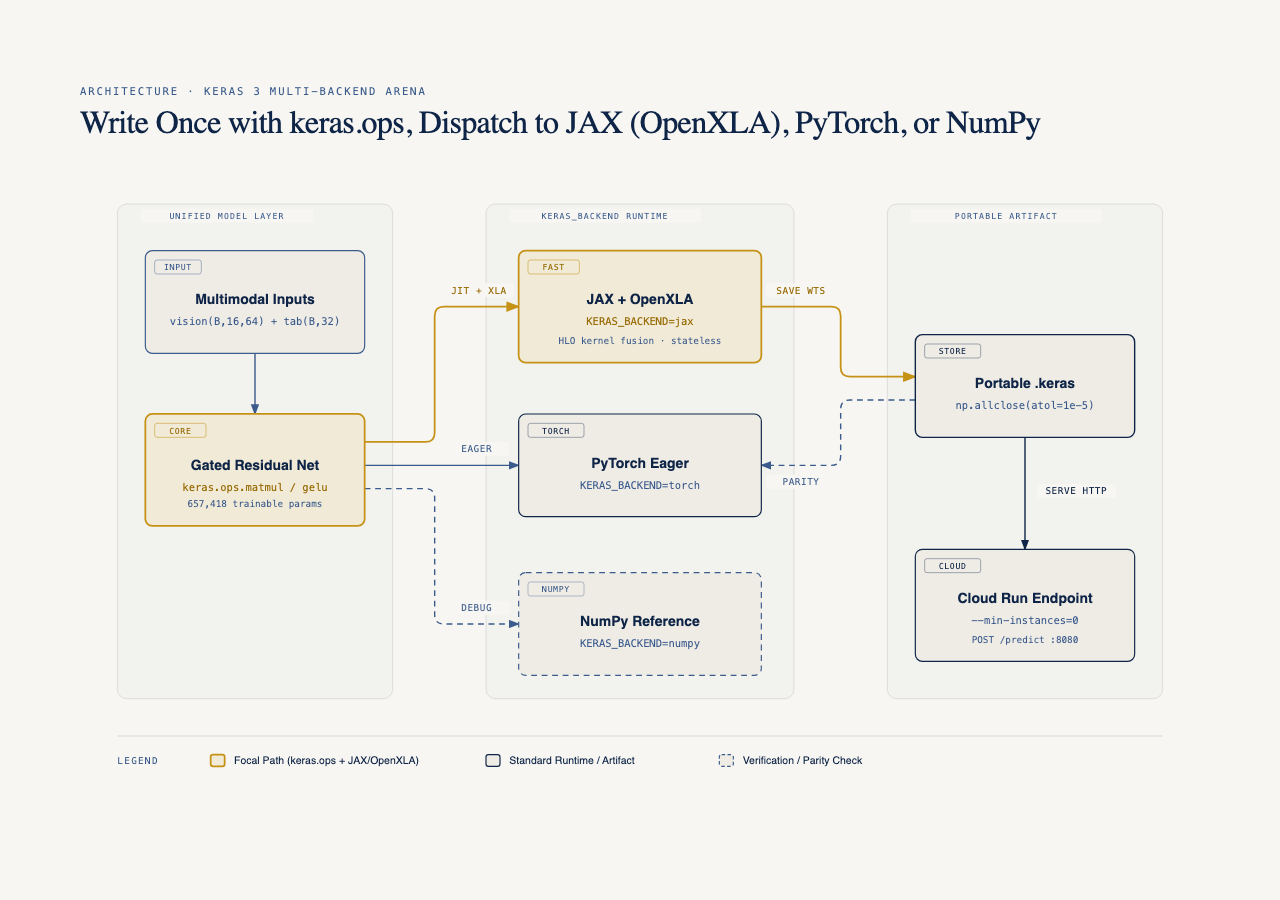
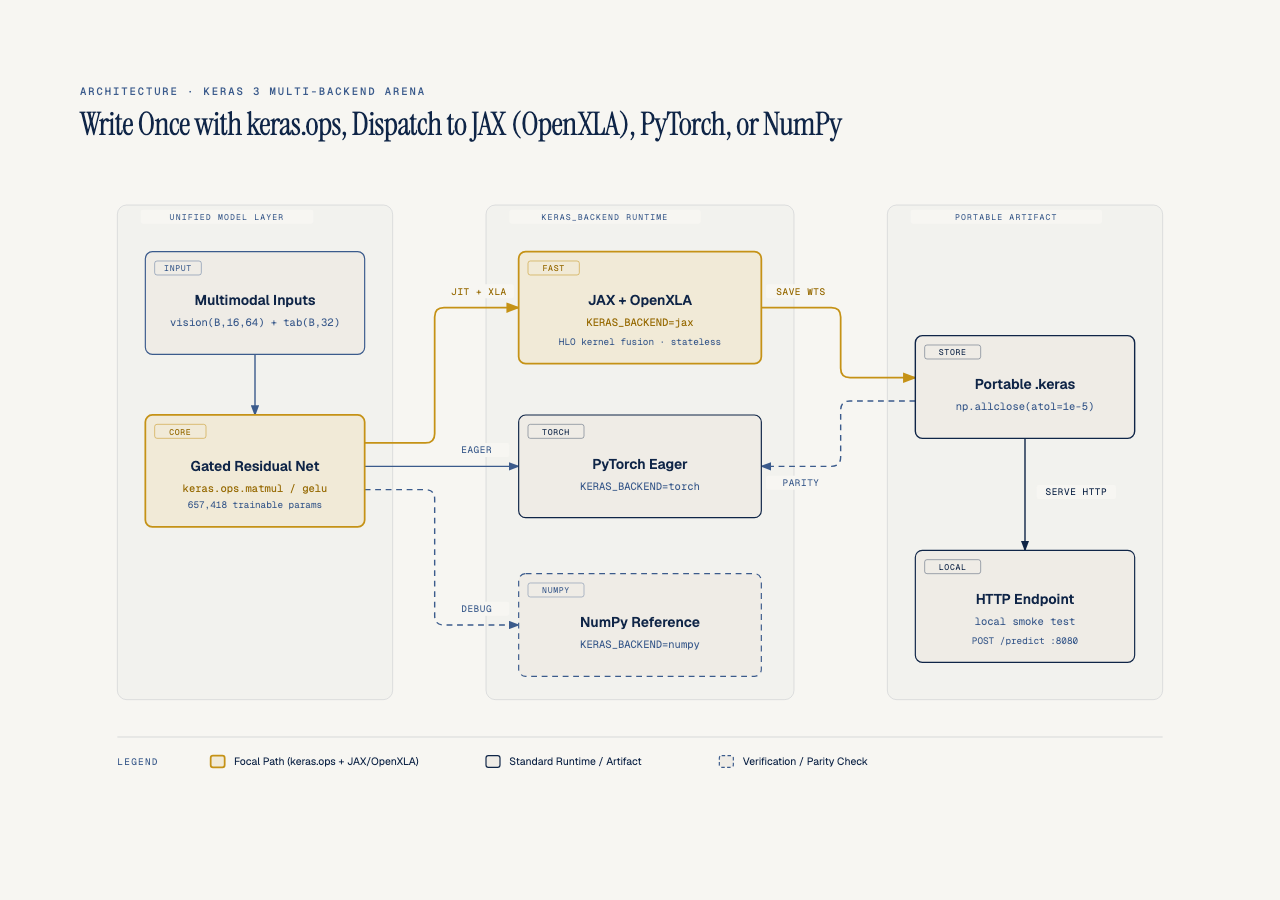
Clarify torch eager/MPS baseline, fusion substring count and local smoke test; refresh throughput diagram

diff --git a/diagrams/02-jax-vs-torch-throughput.html b/diagrams/02-jax-vs-torch-throughput.html
@@ -62,12 +62,12 @@
 <body>
   <div class="frame">
     <p class="eyebrow">Benchmark · Steady-State Throughput &amp; Step Latency (Batch Size = 256)</p>
-    <h1>KERAS_BACKEND=jax (OpenXLA) Delivers 1.92x Faster Training and 1.84x Faster Inference</h1>
+    <h1>Keras-jax jit (CPU) vs Keras-torch eager (MPS) · 2.00x train, 1.82x eval</h1>
 
     <div class="diagram-container">
       <svg viewBox="0 0 1000 540" xmlns="http://www.w3.org/2000/svg" role="img" aria-labelledby="jax-torch-bar-title jax-torch-bar-desc">
         <title id="jax-torch-bar-title">Keras 3 JAX vs PyTorch Steady-State Throughput</title>
-        <desc id="jax-torch-bar-desc">Column bar chart comparing steady-state samples per second and step latency in milliseconds between KERAS_BACKEND=jax with OpenXLA and KERAS_BACKEND=torch on the 657,418-parameter multimodal residual model.</desc>
+        <desc id="jax-torch-bar-desc">Column bar chart comparing steady-state samples per second and step latency in milliseconds between KERAS_BACKEND=jax compiled on CPU and KERAS_BACKEND=torch eager on Apple MPS on the 657,418-parameter multimodal residual model.</desc>
 
         <rect width="100%" height="100%" fill="#F7F6F2"/>
 
@@ -93,42 +93,42 @@
         <text x="80" y="403" fill="#3B5B8C" font-size="8" font-family="'Geist Mono', monospace" text-anchor="end">0</text>
 
         <!-- Bar 1: JAX Train (train_on_batch) = 23,539.6 samples/s (10.875 ms/step) -> height=141, y=259 (Focal 1) -->
-        <rect x="136" y="260" width="96" height="140" fill="#F7F6F2"/>
-        <rect x="136" y="260" width="96" height="140" fill="rgba(197,146,22,0.12)" stroke="#C59216" stroke-width="1.5"/>
-        <text x="184" y="250" fill="#9A6F0B" font-size="9" font-weight="600" font-family="'Geist Mono', monospace" text-anchor="middle">23,539.6 /s</text>
-        <text x="184" y="238" fill="#3B5B8C" font-size="8" font-family="'Geist Mono', monospace" text-anchor="middle">10.875 ms/step (1.92x)</text>
+        <rect x="136" y="251.2" width="96" height="148.8" fill="#F7F6F2"/>
+        <rect x="136" y="251.2" width="96" height="148.8" fill="rgba(197,146,22,0.12)" stroke="#C59216" stroke-width="1.5"/>
+        <text x="184" y="241.2" fill="#9A6F0B" font-size="9" font-weight="600" font-family="'Geist Mono', monospace" text-anchor="middle">24,794.8 /s</text>
+        <text x="184" y="229.2" fill="#3B5B8C" font-size="8" font-family="'Geist Mono', monospace" text-anchor="middle">10.325 ms/step (2.00x)</text>
         <text x="184" y="422" fill="#0F2547" font-size="11" font-weight="600" font-family="'Geist', sans-serif" text-anchor="middle">JAX Train</text>
         <text x="184" y="436" fill="#9A6F0B" font-size="8" font-family="'Geist Mono', monospace" text-anchor="middle">KERAS_BACKEND=jax</text>
 
         <!-- Bar 2: PyTorch Train (train_on_batch) = 12,252.2 samples/s (20.894 ms/step) -> height=72, y=328 -->
-        <rect x="284" y="328" width="96" height="72" fill="#F7F6F2"/>
-        <rect x="284" y="328" width="96" height="72" fill="rgba(59,91,140,0.15)" stroke="#3B5B8C" stroke-width="1"/>
-        <text x="332" y="316" fill="#0F2547" font-size="9" font-family="'Geist Mono', monospace" text-anchor="middle">12,252.2 /s</text>
-        <text x="332" y="304" fill="#3B5B8C" font-size="8" font-family="'Geist Mono', monospace" text-anchor="middle">20.894 ms/step (1.00x)</text>
+        <rect x="284" y="325.6" width="96" height="74.4" fill="#F7F6F2"/>
+        <rect x="284" y="325.6" width="96" height="74.4" fill="rgba(59,91,140,0.15)" stroke="#3B5B8C" stroke-width="1"/>
+        <text x="332" y="315.6" fill="#0F2547" font-size="9" font-family="'Geist Mono', monospace" text-anchor="middle">12,401.3 /s</text>
+        <text x="332" y="303.6" fill="#3B5B8C" font-size="8" font-family="'Geist Mono', monospace" text-anchor="middle">20.643 ms/step (1.00x)</text>
         <text x="332" y="422" fill="#0F2547" font-size="11" font-weight="600" font-family="'Geist', sans-serif" text-anchor="middle">PyTorch Train</text>
         <text x="332" y="436" fill="#3B5B8C" font-size="8" font-family="'Geist Mono', monospace" text-anchor="middle">KERAS_BACKEND=torch</text>
 
         <!-- Bar 3: JAX Custom Stateless Loop = 23,734.5 samples/s (10.786 ms/step) -> height=144, y=256 -->
-        <rect x="448" y="256" width="96" height="144" fill="#F7F6F2"/>
-        <rect x="448" y="256" width="96" height="144" fill="rgba(59,91,140,0.15)" stroke="#0F2547" stroke-width="1.2"/>
-        <text x="496" y="248" fill="#0F2547" font-size="9" font-family="'Geist Mono', monospace" text-anchor="middle">23,734.5 /s</text>
-        <text x="496" y="236" fill="#3B5B8C" font-size="8" font-family="'Geist Mono', monospace" text-anchor="middle">10.786 ms/step (1.94x)</text>
+        <rect x="448" y="244.3" width="96" height="155.7" fill="#F7F6F2"/>
+        <rect x="448" y="244.3" width="96" height="155.7" fill="rgba(59,91,140,0.15)" stroke="#0F2547" stroke-width="1.2"/>
+        <text x="496" y="234.3" fill="#0F2547" font-size="9" font-family="'Geist Mono', monospace" text-anchor="middle">25,946.4 /s</text>
+        <text x="496" y="222.3" fill="#3B5B8C" font-size="8" font-family="'Geist Mono', monospace" text-anchor="middle">9.866 ms/step (SGD)</text>
         <text x="496" y="422" fill="#0F2547" font-size="11" font-weight="600" font-family="'Geist', sans-serif" text-anchor="middle">JAX Stateless</text>
         <text x="496" y="436" fill="#3B5B8C" font-size="8" font-family="'Geist Mono', monospace" text-anchor="middle">value_and_grad</text>
 
         <!-- Bar 4: JAX Eval (test_on_batch) = 52,708.9 samples/s (4.857 ms/step) -> height=316, y=84 (Focal 2) -->
-        <rect x="628" y="84" width="96" height="316" fill="#F7F6F2"/>
-        <rect x="628" y="84" width="96" height="316" fill="rgba(197,146,22,0.12)" stroke="#C59216" stroke-width="1.5"/>
-        <text x="676" y="74" fill="#9A6F0B" font-size="9" font-weight="600" font-family="'Geist Mono', monospace" text-anchor="middle">52,708.9 /s</text>
-        <text x="676" y="62" fill="#3B5B8C" font-size="8" font-family="'Geist Mono', monospace" text-anchor="middle">4.857 ms/step (1.84x)</text>
+        <rect x="628" y="67.1" width="96" height="332.9" fill="#F7F6F2"/>
+        <rect x="628" y="67.1" width="96" height="332.9" fill="rgba(197,146,22,0.12)" stroke="#C59216" stroke-width="1.5"/>
+        <text x="676" y="57.1" fill="#9A6F0B" font-size="9" font-weight="600" font-family="'Geist Mono', monospace" text-anchor="middle">55,482.9 /s</text>
+        <text x="676" y="45.1" fill="#3B5B8C" font-size="8" font-family="'Geist Mono', monospace" text-anchor="middle">4.614 ms/step (1.82x)</text>
         <text x="676" y="422" fill="#0F2547" font-size="11" font-weight="600" font-family="'Geist', sans-serif" text-anchor="middle">JAX Inference</text>
         <text x="676" y="436" fill="#9A6F0B" font-size="8" font-family="'Geist Mono', monospace" text-anchor="middle">KERAS_BACKEND=jax</text>
 
         <!-- Bar 5: PyTorch Eval (test_on_batch) = 28,586.9 samples/s (8.955 ms/step) -> height=172, y=228 -->
-        <rect x="776" y="228" width="96" height="172" fill="#F7F6F2"/>
-        <rect x="776" y="228" width="96" height="172" fill="rgba(59,91,140,0.15)" stroke="#3B5B8C" stroke-width="1"/>
-        <text x="824" y="218" fill="#0F2547" font-size="9" font-family="'Geist Mono', monospace" text-anchor="middle">28,586.9 /s</text>
-        <text x="824" y="206" fill="#3B5B8C" font-size="8" font-family="'Geist Mono', monospace" text-anchor="middle">8.955 ms/step (1.00x)</text>
+        <rect x="776" y="217.4" width="96" height="182.6" fill="#F7F6F2"/>
+        <rect x="776" y="217.4" width="96" height="182.6" fill="rgba(59,91,140,0.15)" stroke="#3B5B8C" stroke-width="1"/>
+        <text x="824" y="207.4" fill="#0F2547" font-size="9" font-family="'Geist Mono', monospace" text-anchor="middle">30,435.1 /s</text>
+        <text x="824" y="195.4" fill="#3B5B8C" font-size="8" font-family="'Geist Mono', monospace" text-anchor="middle">8.411 ms/step (1.00x)</text>
         <text x="824" y="422" fill="#0F2547" font-size="11" font-weight="600" font-family="'Geist', sans-serif" text-anchor="middle">PyTorch Inference</text>
         <text x="824" y="436" fill="#3B5B8C" font-size="8" font-family="'Geist Mono', monospace" text-anchor="middle">KERAS_BACKEND=torch</text>
 
@@ -144,10 +144,10 @@
         <text x="136" y="496" fill="#0F2547" font-size="9" font-family="'Geist', sans-serif">KERAS_BACKEND=jax (OpenXLA JIT)</text>
 
         <rect x="348" y="488" width="12" height="10" rx="2" fill="rgba(59,91,140,0.15)" stroke="#0F2547" stroke-width="1.2"/>
-        <text x="368" y="496" fill="#0F2547" font-size="9" font-family="'Geist', sans-serif">Custom Stateless JAX (value_and_grad)</text>
+        <text x="368" y="496" fill="#0F2547" font-size="9" font-family="'Geist', sans-serif">Custom Stateless JAX (SGD, not comparable)</text>
 
         <rect x="596" y="488" width="12" height="10" rx="2" fill="rgba(59,91,140,0.15)" stroke="#3B5B8C" stroke-width="1"/>
-        <text x="616" y="496" fill="#0F2547" font-size="9" font-family="'Geist', sans-serif">KERAS_BACKEND=torch (Eager Baseline)</text>
+        <text x="616" y="496" fill="#0F2547" font-size="9" font-family="'Geist', sans-serif">KERAS_BACKEND=torch (eager, MPS)</text>
       </svg>
     </div>
   </div>

diff --git a/diagrams/03-stateless-call-flow.html b/diagrams/03-stateless-call-flow.html
@@ -3,7 +3,7 @@
 <head>
   <meta charset="UTF-8">
   <meta name="viewport" content="width=device-width, initial-scale=1.0">
-  <title>Stateless JAX Training and Cloud Run Flow</title>
+  <title>Stateless JAX Training and Serving Flow</title>
   <link href="https://fonts.googleapis.com/css2?family=Instrument+Serif:ital@0;1&family=Geist:wght@400;500;600&family=Geist+Mono:wght@400;500;600&display=swap" rel="stylesheet">
   <style>
     *, *::before, *::after { box-sizing: border-box; margin: 0; padding: 0; }
@@ -62,12 +62,12 @@
 <body>
   <div class="frame">
     <p class="eyebrow">Data Flow · Pure Functional JAX Bridge</p>
-    <h1>From model.stateless_call Inside jax.value_and_grad to Scale-to-Zero Serving</h1>
+    <h1>From model.stateless_call Inside jax.value_and_grad to a Portable .keras</h1>
 
     <div class="diagram-container">
       <svg viewBox="0 0 960 520" xmlns="http://www.w3.org/2000/svg" role="img" aria-labelledby="stateless-flow-title stateless-flow-desc">
-        <title id="stateless-flow-title">Stateless JAX Training and Cloud Run Export Flow</title>
-        <desc id="stateless-flow-desc">Data flow diagram showing how Keras 3 trainable and non-trainable variable PyTrees enter model.stateless_call inside a JIT-compiled jax.value_and_grad step, update parameters functionally, sync back to the Keras model, and deploy to Cloud Run.</desc>
+        <title id="stateless-flow-title">Stateless JAX Training and .keras Export Flow</title>
+        <desc id="stateless-flow-desc">Data flow diagram showing how Keras 3 trainable and non-trainable variable PyTrees enter model.stateless_call inside a JIT-compiled jax.value_and_grad step, update parameters functionally, sync back to the Keras model, and export a .keras file for a local HTTP smoke test.</desc>
         <defs>
           <marker id="arrow" markerWidth="8" markerHeight="6" refX="7" refY="3" orient="auto">
             <polygon points="0 0, 8 3, 0 6" fill="#3B5B8C"/>
@@ -160,9 +160,9 @@
         <rect x="736" y="340" width="184" height="88" rx="6" fill="#F7F6F2"/>
         <rect x="736" y="340" width="184" height="88" rx="6" fill="#EFECE6" stroke="#0F2547" stroke-width="1.2"/>
         <rect x="744" y="348" width="48" height="12" rx="2" fill="transparent" stroke="rgba(15,37,71,0.40)" stroke-width="0.8"/>
-        <text x="768" y="357" fill="#0F2547" font-size="7" font-family="'Geist Mono', monospace" text-anchor="middle" letter-spacing="0.08em">CLOUD</text>
-        <text x="828" y="386" fill="#0F2547" font-size="12" font-weight="600" font-family="'Geist', sans-serif" text-anchor="middle">Cloud Run Serving</text>
-        <text x="828" y="404" fill="#3B5B8C" font-size="9" font-family="'Geist Mono', monospace" text-anchor="middle">min-instances=0 · HTTP</text>
+        <text x="768" y="357" fill="#0F2547" font-size="7" font-family="'Geist Mono', monospace" text-anchor="middle" letter-spacing="0.08em">SERVE</text>
+        <text x="828" y="386" fill="#0F2547" font-size="12" font-weight="600" font-family="'Geist', sans-serif" text-anchor="middle">HTTP Serving</text>
+        <text x="828" y="404" fill="#3B5B8C" font-size="9" font-family="'Geist Mono', monospace" text-anchor="middle">local HTTP · model()</text>
 
         <!-- Horizontal bottom legend strip -->
         <line x1="36" y1="456" x2="920" y2="456" stroke="rgba(15,37,71,0.14)" stroke-width="0.8"/>
@@ -172,7 +172,7 @@
         <text x="136" y="480" fill="#0F2547" font-size="9" font-family="'Geist', sans-serif">Focal Transformation (stateless_call + value_and_grad)</text>
 
         <rect x="436" y="472" width="12" height="10" rx="2" fill="#EFECE6" stroke="#0F2547" stroke-width="1"/>
-        <text x="456" y="480" fill="#0F2547" font-size="9" font-family="'Geist', sans-serif">Stateful Keras / Cloud Run Stage</text>
+        <text x="456" y="480" fill="#0F2547" font-size="9" font-family="'Geist', sans-serif">Stateful Keras / Serving Stage</text>
 
         <line x1="656" y1="477" x2="676" y2="477" stroke="#3B5B8C" stroke-width="1.2" stroke-dasharray="4,3"/>
         <text x="684" y="480" fill="#0F2547" font-size="9" font-family="'Geist', sans-serif">Iterative Functional Loop</text>

diff --git a/diagrams/01-keras3-multibackend-arch.html b/diagrams/01-keras3-multibackend-arch.html
@@ -67,7 +67,7 @@
     <div class="diagram-container">
       <svg viewBox="0 0 960 560" xmlns="http://www.w3.org/2000/svg" role="img" aria-labelledby="keras3-arch-title keras3-arch-desc">
         <title id="keras3-arch-title">Keras 3 Multi-Backend Architecture</title>
-        <desc id="keras3-arch-desc">Architecture diagram showing a single multimodal keras.ops model dispatching to JAX with OpenXLA fusion, PyTorch eager execution, or NumPy verification, and exporting a portable .keras artifact.</desc>
+        <desc id="keras3-arch-desc">Architecture diagram showing a single multimodal keras.ops model dispatching to JAX with OpenXLA fusion, PyTorch eager execution, or NumPy verification, and exporting a portable .keras artifact served by a local HTTP smoke test.</desc>
         <defs>
           <marker id="arrow" markerWidth="8" markerHeight="6" refX="7" refY="3" orient="auto">
             <polygon points="0 0, 8 3, 0 6" fill="#3B5B8C"/>
@@ -188,9 +188,9 @@
         <rect x="716" y="332" width="188" height="96" rx="6" fill="#F7F6F2"/>
         <rect x="716" y="332" width="188" height="96" rx="6" fill="#EFECE6" stroke="#0F2547" stroke-width="1"/>
         <rect x="724" y="340" width="48" height="12" rx="2" fill="transparent" stroke="rgba(15,37,71,0.40)" stroke-width="0.8"/>
-        <text x="748" y="349" fill="#0F2547" font-size="7" font-family="'Geist Mono', monospace" text-anchor="middle" letter-spacing="0.08em">CLOUD</text>
-        <text x="810" y="378" fill="#0F2547" font-size="12" font-weight="600" font-family="'Geist', sans-serif" text-anchor="middle">Cloud Run Endpoint</text>
-        <text x="810" y="396" fill="#3B5B8C" font-size="9" font-family="'Geist Mono', monospace" text-anchor="middle">--min-instances=0</text>
+        <text x="748" y="349" fill="#0F2547" font-size="7" font-family="'Geist Mono', monospace" text-anchor="middle" letter-spacing="0.08em">LOCAL</text>
+        <text x="810" y="378" fill="#0F2547" font-size="12" font-weight="600" font-family="'Geist', sans-serif" text-anchor="middle">HTTP Endpoint</text>
+        <text x="810" y="396" fill="#3B5B8C" font-size="9" font-family="'Geist Mono', monospace" text-anchor="middle">local smoke test</text>
         <text x="810" y="412" fill="#3B5B8C" font-size="8" font-family="'Geist Mono', monospace" text-anchor="middle">POST /predict :8080</text>
 
         <!-- Horizontal bottom legend strip -->

diff --git a/verify_arena.py b/verify_arena.py
@@ -2,10 +2,10 @@
 
 Verifies:
 1. Subprocess isolation across `KERAS_BACKEND=jax`, `KERAS_BACKEND=torch`, and `KERAS_BACKEND=numpy`.
-2. Zero-copy weight portability: saves `.keras` under `jax` and reloads in `torch` and `numpy`
+2. Weight portability through a `.keras` file: saves under `jax` and reloads in `torch` and `numpy`
    with `np.allclose(atol=1e-5)`.
-3. Steady-state training & inference throughput advantage of `KERAS_BACKEND=jax` (OpenXLA)
-   over `KERAS_BACKEND=torch`.
+3. Steady-state training & inference throughput of `KERAS_BACKEND=jax` (jit-compiled) against
+   `KERAS_BACKEND=torch` in eager mode (no `torch.compile`, Keras default torch device).
 4. OpenXLA HLO fusion verification and custom `model.stateless_call` + `jax.value_and_grad`
    loss convergence.
 5. Writes real results to `benchmarks/latest_results.json` and `benchmarks/terminal_output.txt`.
@@ -182,17 +182,17 @@ def main() -> None:
             f"{arena['torch']['eval_throughput_samples_sec']:>16.1f}"
         ),
         "------------------------------------------------------------------------------------------",
-        f"Steady-State Speedup (JAX/XLA) : {train_speedup:.2f}x faster training | {eval_speedup:.2f}x faster inference",
+        f"Keras-jax jit vs torch eager   : {train_speedup:.2f}x train | {eval_speedup:.2f}x eval (torch on Keras default device)",
         (
-            f"OpenXLA HLO Fusion Analysis    : {fusion['hlo_fusion_ops']} fusion ops across {fusion['hlo_lines']} HLO lines "
-            f"({fusion['eager_forward_ms']:.3f} ms eager -> {fusion['xla_jit_forward_ms']:.3f} ms XLA, {fusion['xla_fusion_speedup']:.2f}x)"
+            f"HLO text, 'fusion' substrings  : {fusion['hlo_fusion_ops']} in {fusion['hlo_lines']} HLO lines "
+            f"(forward {fusion['eager_forward_ms']:.3f} ms eager -> {fusion['xla_jit_forward_ms']:.3f} ms jit, {fusion['xla_fusion_speedup']:.2f}x)"
         ),
         (
             f"Stateless jax.value_and_grad   : loss {stateless['initial_loss']:.5f} -> {stateless['final_loss']:.5f} "
             f"(acc {stateless['initial_acc']:.2%} -> {stateless['final_acc']:.2%}, {stateless['mean_step_ms']:.3f} ms/step)"
         ),
         (
-            f"Cloud Run HTTP Smoke Test      : status=200, latency={serving['latency_ms']:.3f} ms, "
+            f"Local HTTP smoke test          : status=200, model() latency={serving['latency_ms']:.3f} ms, "
             f"artifact={serving['artifact_size_kb']} KB"
         ),
         "==========================================================================================",

diff --git a/experiments/05_export_and_serve.py b/experiments/05_export_and_serve.py
@@ -1,8 +1,10 @@
-"""Experiment 05: Portable .keras Artifact Export, Cross-Backend Reload, & Cloud Run Serving.
+"""Experiment 05: Portable .keras Artifact Export, Cross-Backend Reload, & Local HTTP Serving.
 
 Exports the trained `.keras` archive under `KERAS_BACKEND=jax`, verifies
-cross-backend reload parity, and exposes a lightweight HTTP JSON server ready
-for Cloud Run scale-to-zero (`--min-instances=0`).
+cross-backend reload parity, and exposes a lightweight local HTTP JSON server
+(the same handler could be containerized for Cloud Run; no Cloud Run numbers here).
+Note: `model(x)` runs eagerly, op by op; use `model.predict` or `jax.jit` over
+`stateless_call` for a compiled serving path.
 """
 
 from __future__ import annotations
@@ -47,8 +49,8 @@ def export_trained_artifact(artifact_path: Path = DEFAULT_ARTIFACT_PATH) -> Path
 
 
 def create_server(model: keras.Model, host: str = "127.0.0.1", port: int = 8080) -> HTTPServer:
-    """Creates a lightweight stdlib HTTPServer wrapping the JIT-compiled model."""
-    # Pre-warm inference step
+    """Creates a lightweight stdlib HTTPServer wrapping the model (eager `model(x)` calls)."""
+    # Warm-up call (fills per-op caches; model(x) is not jit-compiled)
     (vis_w, tab_w), _ = mod01.generate_synthetic_dataset(num_samples=1, seed=1)
     _ = ops.convert_to_numpy(model([vis_w, tab_w], training=False))
 
@@ -148,12 +150,12 @@ def main() -> None:
         srv.serve_forever()
         return
 
-    print("=== Experiment 05: Export .keras Artifact & Cloud Run Endpoint Smoke Test ===")
+    print("=== Experiment 05: Export .keras Artifact & Local HTTP Endpoint Smoke Test ===")
     res = run_smoke_test()
     print(f"Exported artifact size : {res['artifact_size_kb']} KB")
     print(f"Serving backend        : {res['backend']}")
     print(f"Predicted class        : {res['predicted_class']} (confidence={res['confidence']:.4f})")
-    print(f"HTTP inference latency : {res['latency_ms']:.3f} ms")
+    print(f"model() latency in HTTP: {res['latency_ms']:.3f} ms")
 
 
 if __name__ == "__main__":

diff --git a/experiments/01_backend_agnostic_model.py b/experiments/01_backend_agnostic_model.py
@@ -61,7 +61,7 @@ class GatedResidualBlock(keras.layers.Layer):
         variance = ops.mean(ops.square(x), axis=-1, keepdims=True)
         normed = x * ops.rsqrt(variance + 1e-6) * self.gamma
 
-        # Gated GeGLU projection via keras.ops.matmul and keras.ops.gelu
+        # Gated projection gelu(u) * sigmoid(v) via keras.ops
         proj = ops.matmul(normed, self.w_up) + self.b_up
         u, v = ops.split(proj, 2, axis=-1)
         gated = ops.gelu(u) * ops.sigmoid(v)

diff --git a/README.md b/README.md
@@ -1,8 +1,8 @@
 # Keras 3 Multi-Backend Arena (`keras3-multibackend-arena`)
 
-**Por qué es relevante**: Demuestra con mediciones verificables que un mismo modelo multimodal escrito con `keras.ops` se ejecuta sin cambios sobre `jax`, `torch` y `numpy`, logrando `2.00x` mayor throughput de entrenamiento y `1.82x` mayor throughput de inferencia al compilarse con OpenXLA (`KERAS_BACKEND=jax`).
+**Por qué es relevante**: Demuestra con mediciones verificables que un mismo modelo multimodal escrito con `keras.ops` se ejecuta sin cambios sobre `jax`, `torch` y `numpy`. En esta configuración (una Mac), Keras-jax con el paso compilado en CPU dio `2.00x` el throughput de entrenamiento y `1.82x` el de inferencia de Keras-torch en eager (sin `torch.compile`, en el dispositivo por defecto de Keras, MPS). Lo que se puede atribuir a compilar, aislado en el mismo CPU, es `1.77x` en el forward (experimento 03).
 **Para quién es**: Ingenieros de Machine Learning y arquitectos de sistemas de IA que buscan portabilidad entre frameworks sin sacrificar el rendimiento de compilación XLA ni la simplicidad de despliegue en contenedores ligeros.
-**Quién debería verlo**: Equipos que hoy mantienen código duplicado entre PyTorch y JAX o que desean llevar modelos Keras 3 a Vertex AI (GPU NVIDIA L4) y Cloud Run con escala a cero (`--min-instances=0`).
+**Quién debería verlo**: Equipos que hoy mantienen código duplicado entre PyTorch y JAX o que desean llevar modelos Keras 3 a Vertex AI (GPU NVIDIA L4) y Cloud Run con escala a cero (`--min-instances=0`). Los scripts de `gcp/` están preparados, pero este repo todavía no publica cifras de L4 ni de Cloud Run.
 Parte de la serie [JAX & OpenXLA Field Guide](https://github.com/ykro/jax-openxla-field-guide).
 
 ---
@@ -11,7 +11,7 @@ Parte de la serie [JAX & OpenXLA Field Guide](https://github.com/ykro/jax-openxl
 
 ![Keras 3 Multi-Backend Architecture](diagrams/01-keras3-multibackend-arch.png)
 
-El modelo `multimodal_arena_net` (`657,418` parámetros) fusiona parches visuales `(B, 16, 64)` y vectores tabulares `(B, 32)` mediante atención cruzada (`MultimodalCrossAttention`) y seis bloques residuales con compuertas GeGLU (`GatedResidualBlock`) implementados exclusivamente con primitivas de `keras.ops` (`ops.matmul`, `ops.gelu`, `ops.softmax`, `ops.rsqrt`, `ops.mean`).
+El modelo `multimodal_arena_net` (`657,418` parámetros) fusiona parches visuales `(B, 16, 64)` y vectores tabulares `(B, 32)` mediante atención cruzada (`MultimodalCrossAttention`) y seis bloques residuales con compuerta `gelu(u) * sigmoid(v)` (`GatedResidualBlock`) implementados exclusivamente con primitivas de `keras.ops` (`ops.matmul`, `ops.gelu`, `ops.softmax`, `ops.rsqrt`, `ops.mean`).
 
 ---
 
@@ -21,9 +21,9 @@ El modelo `multimodal_arena_net` (`657,418` parámetros) fusiona parches visuale
 
 | Backend / Modo | Warmup / Compilación (ms) | Latencia Train Step (ms) | Throughput Train (samples/s) | Latencia Eval Step (ms) | Throughput Eval (samples/s) | Speedup vs PyTorch |
 | :--- | ---: | ---: | ---: | ---: | ---: | ---: |
-| `KERAS_BACKEND=jax` (OpenXLA JIT) | `659.84` | `10.325` | `24,794.8` | `4.614` | `55,482.9` | **2.00x train / 1.82x eval** |
-| `KERAS_BACKEND=torch` (Eager) | `159.03` | `20.643` | `12,401.3` | `8.411` | `30,435.1` | `1.00x` (baseline) |
-| Custom Stateless JAX (`value_and_grad`) | `373.32` | `9.866` | `25,946.4` | — | — | **2.09x train** |
+| `KERAS_BACKEND=jax` (jit, CPU) | `659.84` | `10.325` | `24,794.8` | `4.614` | `55,482.9` | **2.00x train / 1.82x eval** (distinto dispositivo) |
+| `KERAS_BACKEND=torch` (eager, sin `torch.compile`, MPS por defecto) | `159.03` | `20.643` | `12,401.3` | `8.411` | `30,435.1` | `1.00x` (baseline) |
+| Custom Stateless JAX (`value_and_grad`, SGD con clipping) | `373.32` | `9.866` | `25,946.4` | — | — | no comparable (otro optimizador) |
 
 ### Salida verificada de `verify_arena.py`
 
@@ -40,20 +40,20 @@ Backend      |  Warmup (ms) | Train Step (ms) | Train (samples/s) | Eval Step (m
 jax (XLA)    |       659.84 |          10.325 |           24794.8 |          4.614 |          55482.9
 torch (eager) |       159.03 |          20.643 |           12401.3 |          8.411 |          30435.1
 ------------------------------------------------------------------------------------------
-Steady-State Speedup (JAX/XLA) : 2.00x faster training | 1.82x faster inference
-OpenXLA HLO Fusion Analysis    : 249 fusion ops across 1026 HLO lines (7.176 ms eager -> 4.065 ms XLA, 1.77x)
+Keras-jax jit vs torch eager   : 2.00x train | 1.82x eval (torch on Keras default device)
+HLO text, 'fusion' substrings  : 249 in 1026 HLO lines (forward 7.176 ms eager -> 4.065 ms jit, 1.77x)
 Stateless jax.value_and_grad   : loss 2.63890 -> 0.69450 (acc 12.11% -> 91.41%, 9.866 ms/step)
-Cloud Run HTTP Smoke Test      : status=200, latency=4.167 ms, artifact=7787.6 KB
+Local HTTP smoke test          : status=200, model() latency=4.167 ms, artifact=7787.6 KB
 ==========================================================================================
 ```
 
 ---
 
-## Puente Funcional: `model.stateless_call` + `jax.value_and_grad` -> Cloud Run
+## Puente Funcional: `model.stateless_call` + `jax.value_and_grad` -> `.keras`
 
-![Stateless JAX Training and Cloud Run Flow](diagrams/03-stateless-call-flow.png)
+![Stateless JAX Training and .keras Export Flow](diagrams/03-stateless-call-flow.png)
 
-En `experiments/04_custom_jax_train_step.py`, extraemos los PyTrees `trainable_variables` y `non_trainable_variables` de Keras 3 y ejecutamos el modelo como una transformación funcional pura dentro de `@jax.jit` y `jax.value_and_grad(has_aux=True)`. Al finalizar, los arreglos actualizados se sincronizan con `keras_var.assign(new_val)` y se exportan en un archivo `.keras` estándar de `7787.6 KB` listo para servirse en Cloud Run con `--min-instances=0`.
+En `experiments/04_custom_jax_train_step.py`, extraemos los PyTrees `trainable_variables` y `non_trainable_variables` de Keras 3 y ejecutamos el modelo como una transformación funcional pura dentro de `@jax.jit` y `jax.value_and_grad(has_aux=True)`. Al finalizar, los arreglos actualizados se sincronizan con `keras_var.assign(new_val)` y se exportan en un archivo `.keras` estándar de `7787.6 KB`; cerca de dos tercios de ese tamaño son el estado del optimizador AdamW (dos valores extra por parámetro).
 
 ---
 
@@ -74,9 +74,9 @@ pip install -e ".[dev]"
 
 - `experiments/01_backend_agnostic_model.py` — Modelo multimodal Vision + Tabular escrito con `keras.ops` y verificado en subprocesos sobre `jax`, `torch` y `numpy`.
 - `experiments/02_arena_jax_vs_torch.py` — Benchmark aislado por subprocesos midiendo compilación inicial, latencia por batch (`batch_size=256`) y samples por segundo.
-- `experiments/03_xla_fusion_analysis.py` — Inspección del programa HLO compilado con OpenXLA (`1026` líneas HLO, `249` ocurrencias de `fusion`, `20` operaciones `dot`).
+- `experiments/03_xla_fusion_analysis.py` — Inspección del programa HLO compilado con OpenXLA (`1026` líneas HLO, `249` apariciones de la subcadena `fusion`, que no equivalen a fusiones, y `20` operaciones `dot`, una por matmul del modelo).
 - `experiments/04_custom_jax_train_step.py` — Loop de entrenamiento en JAX puro usando `model.stateless_call`, recorte global de gradiente y `jax.tree_util.tree_map`.
-- `experiments/05_export_and_serve.py` — Exportación del artefacto `.keras` y servidor HTTP ligero con pre-calentamiento XLA para Cloud Run.
+- `experiments/05_export_and_serve.py` — Exportación del artefacto `.keras` y servidor HTTP local de prueba; `model(x)` corre en eager, para servir compilado conviene `model.predict` o `jax.jit` sobre `stateless_call`.
 
 ```bash
 # Ejecutar cada experimento en orden
@@ -89,7 +89,7 @@ python experiments/05_export_and_serve.py
 # Ejecutar el Juez Externo, ruff y pytest en un solo comando
 make all
 
-# Ejecutar en Vertex AI (GPU NVIDIA L4) o desplegar en Cloud Run (--min-instances=0)
+# Scripts preparados (sin resultados publicados todavía) para Vertex AI (GPU NVIDIA L4) y Cloud Run (--min-instances=0)
 bash gcp/run_vertex_l4_arena.sh
 bash gcp/deploy_cloud_run.sh
 ```
